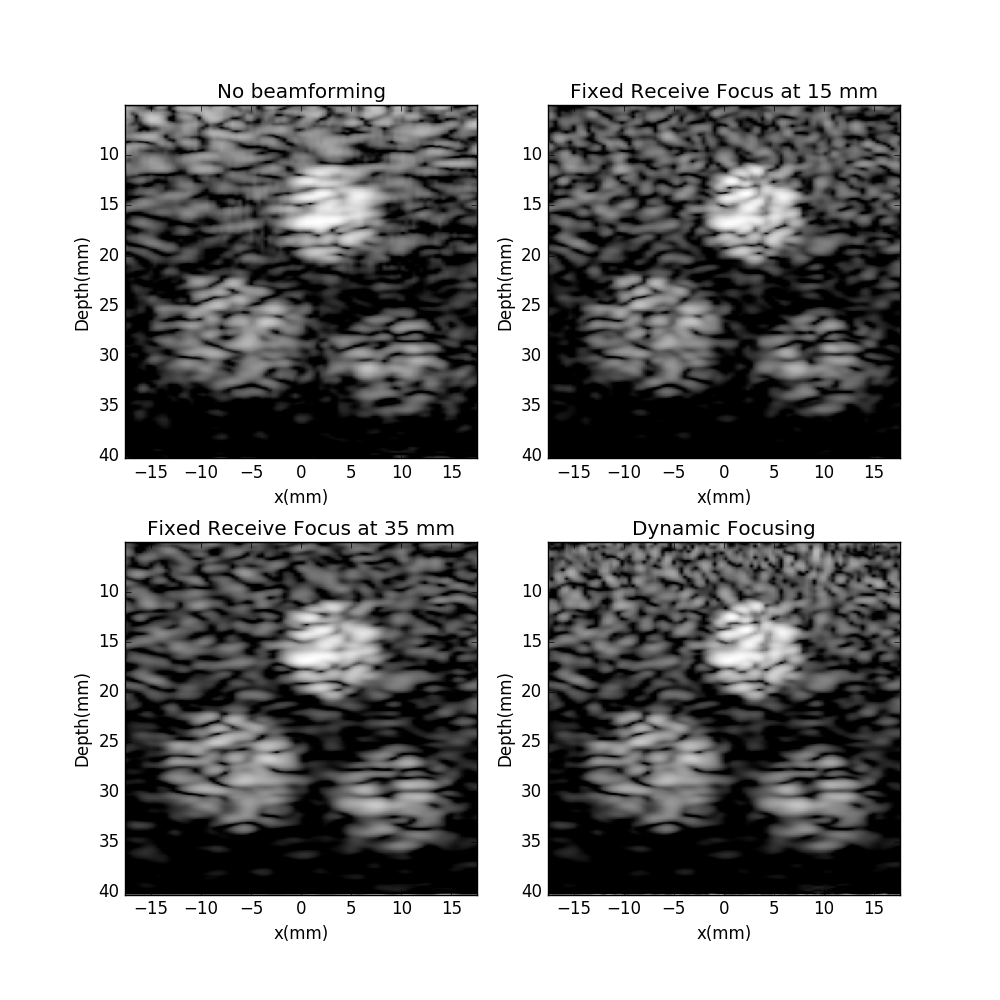
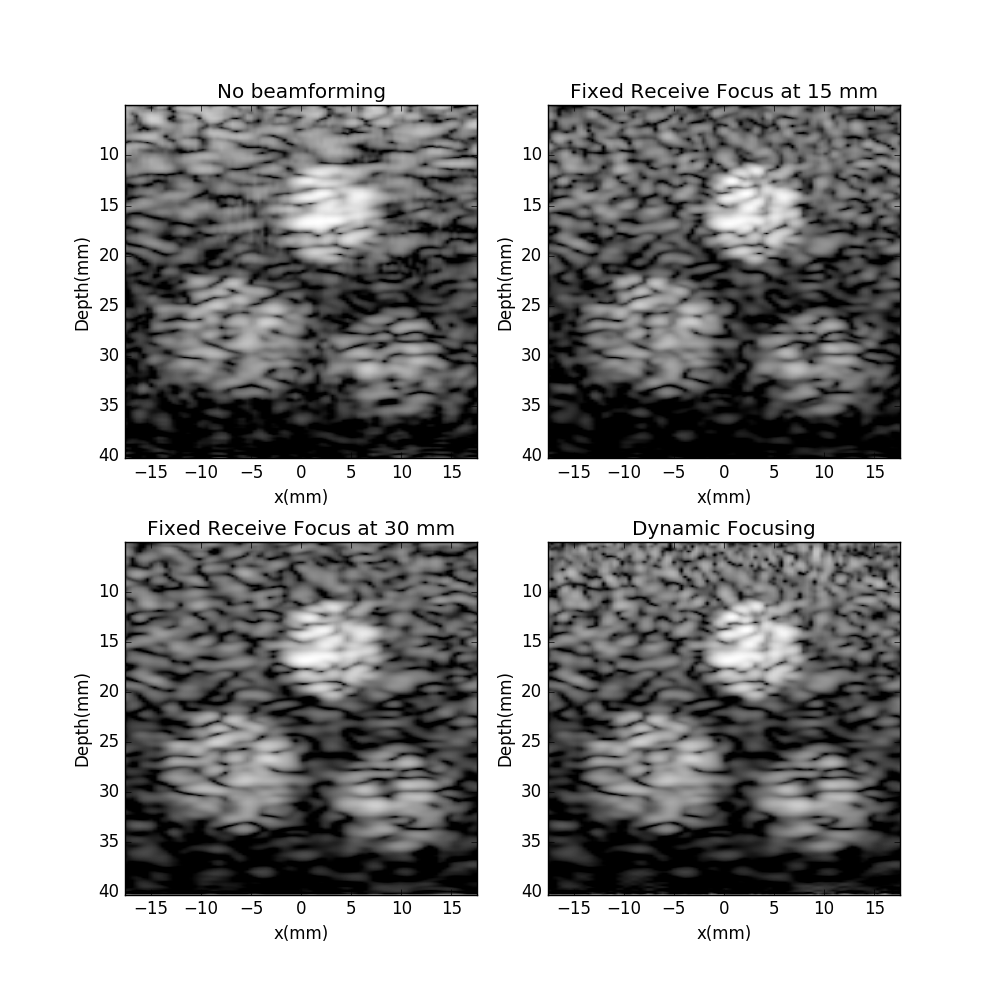
misc edits

diff --git a/linear_array_beamforming.py b/linear_array_beamforming.py
@@ -355,7 +355,7 @@ def main():
     rxFocus = 15e-3
     imageBF1 = beamform(dataApod, t2, xd, rxFocus)
     
-    rxFocus = 35e-3
+    rxFocus = 30e-3
     imageBF2 = beamform(dataApod, t2, xd, rxFocus)
 
     # beamforming with dynamic focusing
@@ -386,7 +386,7 @@ def main():
                                    method='hilbert')
             
         # log compression and scan conversion
-        DR = 30  # dynamic range - units of dB
+        DR = 35  # dynamic range - units of dB
         reject = 0  # rejection level - units of dB
         BG = 0  # brightness gain - units of dB
         imageLog = logCompress(imTrunc, DR, reject, BG)
@@ -419,7 +419,7 @@ def main():
                                       zSC[0]*1e3], cmap='gray', interpolation='none')
     ax3.set_ylabel('Depth(mm)')
     ax3.set_xlabel('x(mm)')
-    ax3.set_title('Fixed Receive Focus at 35 mm')
+    ax3.set_title('Fixed Receive Focus at 30 mm')
 
     ax4.imshow(imagesProc[3], extent=[xSC[0]*1e3, xSC[-1]*1e3, zSC[-1]*1e3,
                                       zSC[0]*1e3], cmap='gray', interpolation='none')

diff --git a/README.md b/README.md
@@ -1,6 +1,6 @@
 This is an example of ultrasound beamforming using a linear array in Python. RF Data was simulated using a 3rd party MATLAB toolbox called K-Wave created by Bradley Treeby, Ben Cox, and Jiri Jaros. Specifically, the data was generated using the program example_us_bmode_linear_transducer.m, which sets up a linear probe and generates the signals received after pulsing into a 3D scattering phantom. The phantom accounts for nonlinearity, multiple scattering, power law acoustic absorption, and a finite beam width in the elevation direction.
 
-example_us_bmode_linear_transducer.m not only simulates recorded data but performs image reconstruction as well. However, I have merely acquired the raw RF data stored in the variable 'sensor_data' and written my own image reconstruction routines with an educational emphasis. The conventional steps in an ultraosound signal processing pipeline are conducted, and a comparison is performed between simple B-mode imaging, beamforming with fixed receive focus, and dynamic focusing. 
+example_us_bmode_linear_transducer.m not only simulates recorded data but performs image reconstruction as well. However, I have merely acquired the raw RF data stored in the variable 'sensor_data' and written my own image reconstruction routines with an educational emphasis. The conventional steps in an ultrasound signal processing pipeline are conducted, and a comparison is performed between simple B-mode imaging, beamforming with fixed receive focus, and dynamic focusing. 
 
 One can find the nature of the simulated data as well as a description of the K-wave program here: 
 
